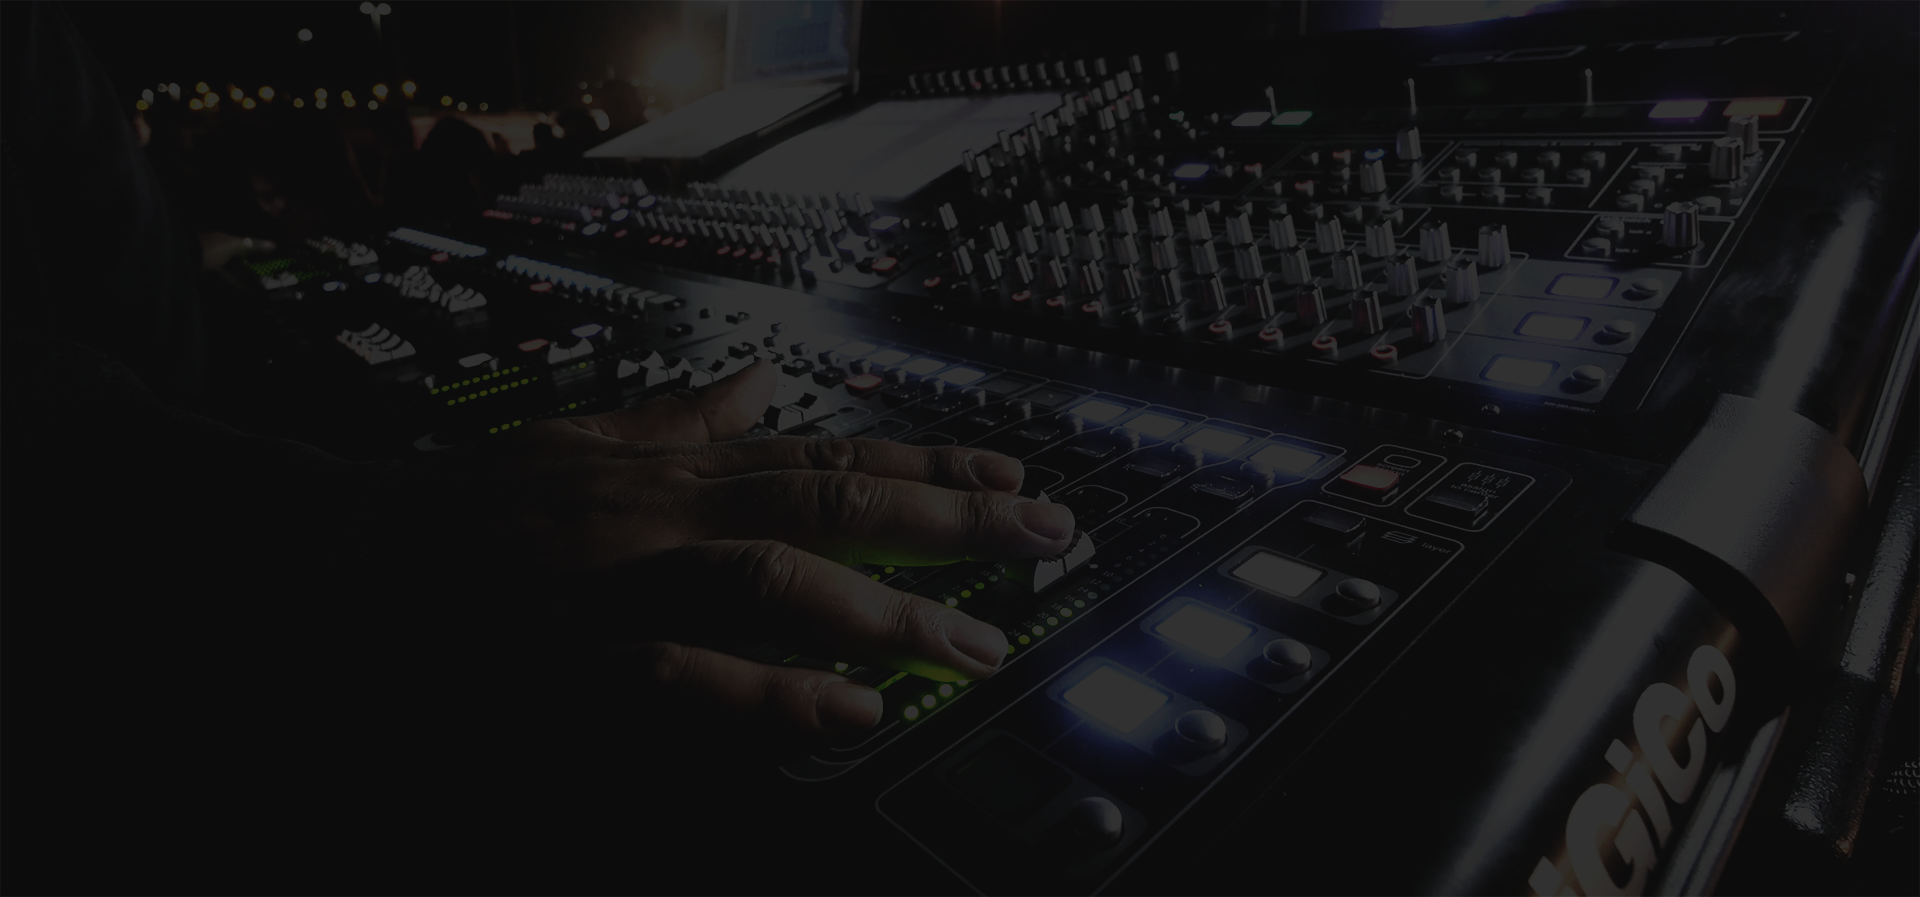
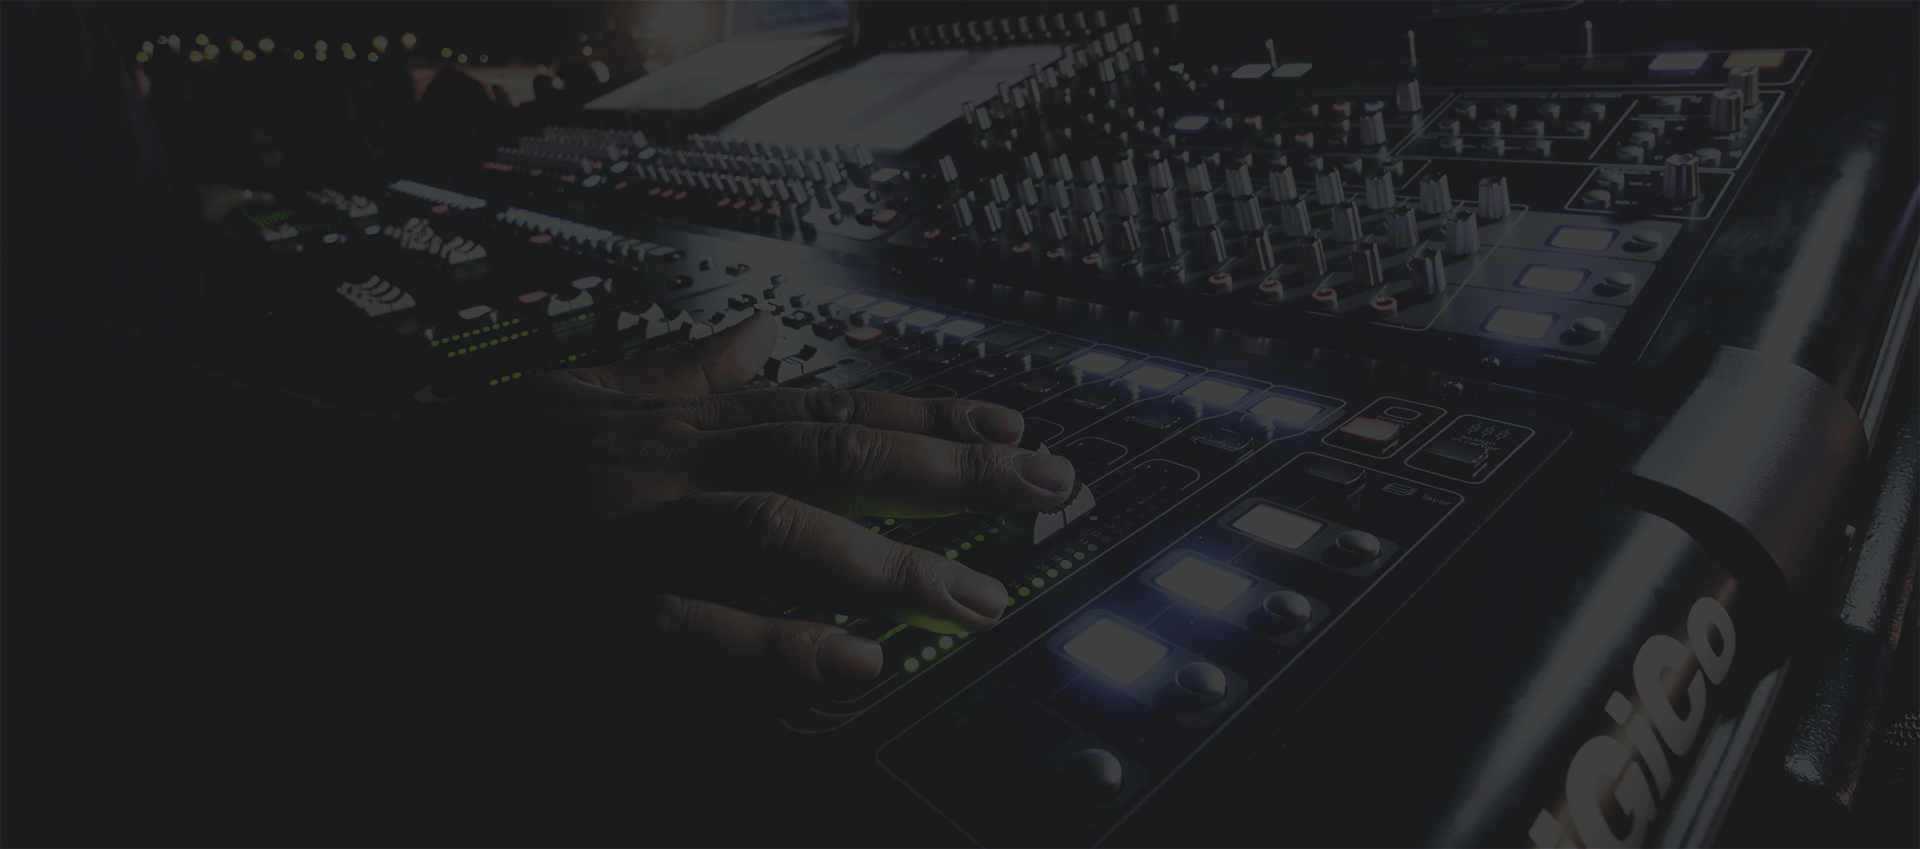
added animation for header

diff --git a/css/style.css b/css/style.css
@@ -1,1 +1,1 @@
-body{margin:0 auto;background:#ebebeb}h1{font-family:'Rajdhani', sans-serif;font-weight:600;text-transform:uppercase;letter-spacing:0.1em;line-height:0.9em}h2{font-family:'Rajdhani', sans-serif;font-weight:600;text-transform:uppercase;letter-spacing:0.05em;font-size:1.4em;line-height:0.9em;margin-top:10px;margin-bottom:10px}li{list-style-type:none}p{margin-bottom:10px}.logotext{font-family:'Titillium Web', sans-serif;font-weight:900;font-size:1.8em;color:#ebebeb;letter-spacing:0.05em;text-transform:uppercase}#text-or{width:12%;font-size:1.4em;color:#ebebeb;text-align:center;text-transform:uppercase;font-weight:600;font-family:'Rajdhani', sans-serif;padding:8px}#searchField::-webkit-input-placeholder{color:#6e7176;font-family:'Rajdhani', sans-serif;font-weight:600;text-transform:uppercase;font-size:0.9em}.btn{font-family:'Rajdhani', sans-serif;font-weight:600;text-transform:uppercase}.artistName{font-family:'Rajdhani', sans-serif;font-weight:600;text-transform:uppercase;font-size:1.5em}.form-label{font-family:'Rajdhani', sans-serif;font-weight:600;text-transform:uppercase;font-size:1.2em}.footer-txt{font-family:'Rajdhani', sans-serif;font-weight:600;text-transform:uppercase;font-size:1.5em;color:#FFFFFF}a:hover{text-decoration:none}.fa-2x{margin-right:10px}header{background-color:#44494f}.header-img{height:55vh;width:100%;background-image:url("../images/bg-mixer.png");opacity:0.7;background-position:top center;background-size:cover;-webkit-background-size:cover;-moz-background-size:cover;-o-background-size:cover}nav{margin:0 auto;height:65px;max-width:960px;padding:10px;display:flex;justify-content:space-between;padding-top:210px}main{margin:0 auto;max-width:960px;background:#FFFFFF;padding:30px;min-height:700px}section{margin:0 0 40px 0}.artistinfo{margin:auto;text-align:center}.img{margin-left:auto;margin-right:auto}.top-header{text-align:center;height:65px;padding:10px}#search-field{width:65%;padding-left:5%;padding-right:5%;text-transform:uppercase}#searchField{text-transform:uppercase;font-family:'Rajdhani', sans-serif;font-weight:600}#submit-new{text-align:center;width:20%}#displayAllArtists,#displayAllAlbums{display:flex;flex-wrap:wrap;align-items:flex-start}.infosection{display:flex;flex-wrap:wrap;justify-content:flex-start}footer{background:#44494f;height:150px;padding:30px}.footer-content{color:#FFFFFF;text-align:center;max-width:960px;margin:0 auto}#albumtracks{width:100%}.infoCard{border:1px solid black;width:22%;margin:10px;text-align:center;min-height:220px}.border-sm{width:100%;height:5px;background:#30353b}.border-sm{width:100%;height:5px;background:#30353b}.btn{margin-bottom:15px}.modal-content .btn{width:40%}.img-container{width:100%;max-height:120px;overflow:hidden}.img-container-specific{width:55%;max-height:500px;overflow:hidden;margin-bottom:20px;margin-right:20px}.img-fluid{width:100%}#info{width:40%;text-align:left}.spotify{margin-top:20px;width:100%}#spotifyLogo{fill:#1db954}.spotifyLogoContainer{padding:10px;width:60%;margin:0 auto;padding-top:10px}.spotifyLogoContainer-specific{padding:10px;width:40%;padding-top:10px}.hide{display:none}.modal{display:none;position:fixed;z-index:100;left:0;top:0;width:100%;height:100%;overflow:auto;background-color:#000;background-color:rgba(0,0,0,0.8)}.modal-content{display:flex;align-items:center;background-color:#fefefe;margin:15% auto;padding:10px;border:1px solid #888;width:40%}.btnClose{color:#aaa;float:right;font-size:28px;font-weight:bold}.btnClose:hover,.btnClose:focus{color:black;text-decoration:none;cursor:pointer}.playlistSong-container{display:flex}.playlistSelectSong-scroll{display:flex;width:70%}.playlistSelectSong-Button{display:flex;width:25%;margin-left:5px}
+body{margin:0 auto;background:#ebebeb}h1{font-family:'Rajdhani', sans-serif;font-weight:600;text-transform:uppercase;letter-spacing:0.1em;line-height:0.9em}h2{font-family:'Rajdhani', sans-serif;font-weight:600;text-transform:uppercase;letter-spacing:0.05em;font-size:1.4em;line-height:0.9em;margin-top:10px;margin-bottom:10px}li{list-style-type:none}p{margin-bottom:10px}.logotext{font-family:'Euphoria Script', cursive;font-weight:900;font-size:2.8em;color:#ebebeb;text-align:center;margin-bottom:0px;padding-top:15px}#text-or{width:12%;font-size:1.4em;color:#ebebeb;text-align:center;text-transform:uppercase;font-weight:600;font-family:'Rajdhani', sans-serif;padding:8px}#searchField::-webkit-input-placeholder{color:#6e7176;font-family:'Rajdhani', sans-serif;font-weight:600;text-transform:uppercase;font-size:0.9em}.btn{font-family:'Rajdhani', sans-serif;font-weight:600;text-transform:uppercase}.artistName{font-family:'Rajdhani', sans-serif;font-weight:600;text-transform:uppercase;font-size:1.5em}.form-label{font-family:'Rajdhani', sans-serif;font-weight:600;text-transform:uppercase;font-size:1.2em}.footer-txt{font-family:'Rajdhani', sans-serif;font-weight:600;text-transform:uppercase;font-size:1.5em;color:#FFFFFF}a:hover{text-decoration:none}.fa-2x{margin-right:10px}header{background-color:#44494f}.header-img{height:45vh;width:100%;background-image:url("../images/bg-mixer.png");opacity:0.8;background-position:top center;background-size:cover;-webkit-background-size:cover;-moz-background-size:cover;-o-background-size:cover;transition:height 0.5s ease-out}.header-img-animate{height:28vh}nav{margin:0 auto;height:65px;max-width:960px;padding:10px;display:flex;justify-content:space-between;padding-top:40px}main{margin:0 auto;max-width:960px;background:#FFFFFF;padding:30px;min-height:700px}section{margin:0 0 40px 0}.artistinfo{margin:auto;text-align:center}.img{margin-left:auto;margin-right:auto}#search-field{width:65%;padding-left:5%;padding-right:5%;text-transform:uppercase}#searchField{text-transform:uppercase;font-family:'Rajdhani', sans-serif;font-weight:600}#submit-new{text-align:center;width:20%}#displayAllArtists,#displayAllAlbums{display:flex;flex-wrap:wrap;align-items:flex-start}.infosection{display:flex;flex-wrap:wrap;justify-content:flex-start}footer{background:#44494f;height:150px;padding:30px}.footer-content{color:#FFFFFF;text-align:center;max-width:960px;margin:0 auto}#albumtracks{width:100%}.infoCard{border:1px solid black;width:22%;margin:10px;text-align:center;min-height:220px}.border-sm{width:100%;height:9px;background:#1f252b}.btn{margin-bottom:15px}.modal-content .btn{width:40%}.img-container{width:100%;max-height:120px;overflow:hidden}.img-container-specific{width:55%;max-height:500px;overflow:hidden;margin-bottom:20px;margin-right:20px}.img-fluid{width:100%}#info{width:40%;text-align:left}.spotify{margin-top:20px;width:100%}#spotifyLogo{fill:#1db954}.spotifyLogoContainer{padding:10px;width:60%;margin:0 auto;padding-top:10px}.spotifyLogoContainer-specific{padding:10px;width:40%;padding-top:10px}.hide{filter:alpha(opacity=0);opacity:0;transition:opacity .2s}.modal{display:none;position:fixed;z-index:100;left:0;top:0;width:100%;height:100%;overflow:auto;background-color:#000;background-color:rgba(0,0,0,0.8)}.modal-content{display:flex;align-items:center;background-color:#fefefe;margin:15% auto;padding:10px;border:1px solid #888;width:40%}.btnClose{color:#aaa;float:right;font-size:28px;font-weight:bold}.btnClose:hover,.btnClose:focus{color:black;text-decoration:none;cursor:pointer}.playlistSong-container{display:flex}.playlistSelectSong-scroll{display:flex;width:70%}.playlistSelectSong-Button{display:flex;width:25%;margin-left:5px}

diff --git a/sass/style.scss b/sass/style.scss
@@ -27,19 +27,22 @@ h2 {
 }
 
 li {
-list-style-type: none;
+    list-style-type: none;
 }
 
 p {
     margin-bottom: 10px;
 }
+
 .logotext {
-    font-family: 'Titillium Web', sans-serif;
+    font-family: 'Euphoria Script', cursive;
     font-weight: 900;
-    font-size: 1.8em;
+    font-size: 2.8em;
     color: #ebebeb;
-    letter-spacing: 0.05em;
-    text-transform: uppercase;
+    text-align: center;
+    margin-bottom: 0px;
+    padding-top: 15px;
+    
 }
 
 #text-or {
@@ -106,15 +109,21 @@ header {
 }
 
 .header-img {
-    height: 55vh;
+    height: 45vh;
     width: 100%;
     background-image: url('../images/bg-mixer.png');
-    opacity: 0.7;
+    opacity: 0.8;
     background-position: top center;
     background-size: cover;
     -webkit-background-size: cover;
     -moz-background-size: cover;
     -o-background-size: cover;
+    transition: height 0.5s ease-out;
+}
+
+.header-img-animate {
+    
+    height: 28vh;
 }
 
 nav {       
@@ -124,7 +133,7 @@ nav {
     padding: 10px;
     display: flex;
     justify-content: space-between;
-    padding-top: 210px;
+    padding-top: 40px;
 }
 
 main {
@@ -145,12 +154,6 @@ section {
 } .img {
     margin-left: auto;
     margin-right: auto;
-}
-
-.top-header {
-    text-align: center;
-    height: 65px;
-    padding: 10px;
 }
 
 #search-field {
@@ -199,6 +202,8 @@ footer {
 #albumtracks {
     width: 100%;
 }
+
+
 /****************
 -- COMPONENTS --
 ****************/
@@ -213,14 +218,8 @@ footer {
 
 .border-sm {
     width: 100%;
-    height: 5px;
-    background: #30353b;
-}
-
-.border-sm {
-    width: 100%;
-    height: 5px;
-    background: #30353b;
+    height: 9px;
+    background: #1f252b;
 }
 
 .btn {
@@ -277,8 +276,12 @@ footer {
 }
 
 .hide {
-    display: none;
+    //display: none;
+    filter: alpha(opacity=0);
+    opacity: 0;
+    transition: opacity .2s;
 }
+
 
 /****************
 - POP-UP WINDOW -
@@ -326,16 +329,16 @@ footer {
 /* Playlist Song Dropdown */
 
 .playlistSong-container {
-  display: flex;
+    display: flex;
 }
 
 .playlistSelectSong-scroll {
-  display: flex;
-  width: 70%;
+    display: flex;
+    width: 70%;
 }
 
 .playlistSelectSong-Button {
-  display: flex;
-  width: 25%;
-margin-left: 5px;
+    display: flex;
+    width: 25%;
+    margin-left: 5px;
 }

diff --git a/index.html b/index.html
@@ -10,6 +10,7 @@
         <link rel="stylesheet" type="text/css" media="screen" href="css/style.css" />
         <link href="https://fonts.googleapis.com/css?family=Titillium+Web:900" rel="stylesheet">
         <link href="https://fonts.googleapis.com/css?family=Rajdhani:400,600" rel="stylesheet">
+        <link href="https://fonts.googleapis.com/css?family=Euphoria+Script" rel="stylesheet">
         <script defer src="https://use.fontawesome.com/releases/v5.0.10/js/all.js" integrity="sha384-slN8GvtUJGnv6ca26v8EzVaR9DC58QEwsIk9q1QXdCU8Yu8ck/tL/5szYlBbqmS+" crossorigin="anonymous"></script>
     </head>
 
@@ -17,13 +18,9 @@
 
         <!-- HEADER & NAV -->
         <header>
-            <div class="top-header">
-                <div class="logotext"><a href="index.html">Music n' Stuff</a></div>
-            </div>
-            <div class="border-sm"></div>
-
             <div class="header-img" id="theHeader">
-                <nav>
+                <div class="logotext"><a href="index.html" id="siteLogo"><p class="logotext">Music n' Stuff</p></a></div>
+                <nav id="nav">
                     <div id="search-field">
                         <form>
                             <div class="form-group">
@@ -72,15 +69,15 @@
                 <div id="displayAllPlaylists"></div>
             </section>
 
-            <section class="tracks">
-                <h1>Tracks</h1>
-                <div id="displayAllTracks"></div>
-            </section>  
-
             <section class="albums">
                 <h1>Albums</h1>
                 <div id="displayAllAlbums"></div>
             </section>
+            
+            <section class="tracks">
+                    <h1>Tracks</h1>
+                    <div id="displayAllTracks"></div>
+                </section>  
         </main>
 
         <!-- FOOTER -->

diff --git a/js/model.js b/js/model.js
@@ -33,21 +33,6 @@ function getAlbumData(what, many){
         })
 }
 
-/*Fetch Tracks Trough API, choose how many*/
-function getTracksData(what, many){
-    var url = 'https://folksa.ga/api/' + what + '?limit=' + many + '&sort=desc&key=flat_eric';
-    fetch(url)
-        .then(function (response) {
-            return response.json();
-        })
-        .then(function (tracksData) {
-            displayTracks(tracksData);
-        })
-        .catch(function (error) {
-            console.log(error);
-        })
-}
-
 /*Fetch Playlists Trough API, choose how many*/
 function getPlaylistData(what, many){
     var url = 'https://folksa.ga/api/' + what + '?limit=' + many + '&sort=asc&key=flat_eric';
@@ -59,6 +44,21 @@ function getPlaylistData(what, many){
             displayPlaylists(playlistsData);
             playlistOptions(playlistsData);
 
+        })
+        .catch(function (error) {
+            console.log(error);
+        })
+}
+
+/*Fetch Tracks Trough API, choose how many*/
+function getTracksData(what, many){
+    var url = 'https://folksa.ga/api/' + what + '?limit=' + many + '&sort=desc&key=flat_eric';
+    fetch(url)
+        .then(function (response) {
+            return response.json();
+        })
+        .then(function (tracksData) {
+            displayTracks(tracksData);
         })
         .catch(function (error) {
             console.log(error);
@@ -131,7 +131,6 @@ function getPlaylistComments(id) {
 /**************
 SUBMITS TO API 
 **************/
-
 
 /*Function that Submits Artists from Form */
 function isEmptyOrSpaces(str){
@@ -371,10 +370,4 @@ function deleteFrom(what, id){
     }
     
 }
-
-
-getArtistData("artists", 10);
-getAlbumData("albums", 10);
-getTracksData("tracks", 10);
-getPlaylistData("playlists", 10);
 

diff --git a/js/controller.js b/js/controller.js
@@ -7,7 +7,9 @@ const submitPopUp = document.getElementById('myModal');
 const btnClose = document.getElementsByClassName("btnClose")[0];
 const mainDiv = document.getElementById('main');
 const artistDropdown = document.getElementById('artistDropdown');
-
+const siteLogo = document.getElementById('siteLogo')
+const header = document.getElementById('theHeader');
+const nav = document.getElementById('nav');
 
 //CLICK EVENTS FOR VARIOUS BUTTONS:
 
@@ -16,9 +18,14 @@ btnSubmit.addEventListener('click', function(event) {
     submitPopUp.style.display = "block";
 });
 
+siteLogo.addEventListener('click', function(event) {
+  //event.preventDefault();
+  //toggleHeader();
+});
+
 btnClose.addEventListener('click', function(event) {
-    console.log('Submit Clicked!')
-    submitPopUp.style.display = "none";
+  console.log('Submit Clicked!')
+  submitPopUp.style.display = "none";
 });
 
 btnSubmitArtist.addEventListener('click', function(event) {
@@ -155,6 +162,6 @@ function countRating(rating) {
   }
 
   function toggleHeader() {
-    const header = document.getElementById('theHeader');
-    header.classList.toggle('hide');
+    header.classList.toggle('header-img-animate');
+    nav.classList.toggle('hide');
   }

diff --git a/js/view.js b/js/view.js
@@ -1,3 +1,8 @@
+getArtistData("artists", 10);
+getAlbumData("albums", 10);
+getPlaylistData("playlists", 10);
+getTracksData("tracks", 10);
+
 const artistsList = document.getElementById('displayAllArtists');
 const albumsList = document.getElementById('displayAllAlbums');
 const tracksList = document.getElementById('displayAllTracks');
@@ -321,6 +326,7 @@ function displayCommentsForm(playlistId) {
     document.getElementById('main').insertAdjacentHTML('beforeend', content)
        
 }
+
 /*************************
 ---- DISPLAYS FORMS  -----
 *************************/
